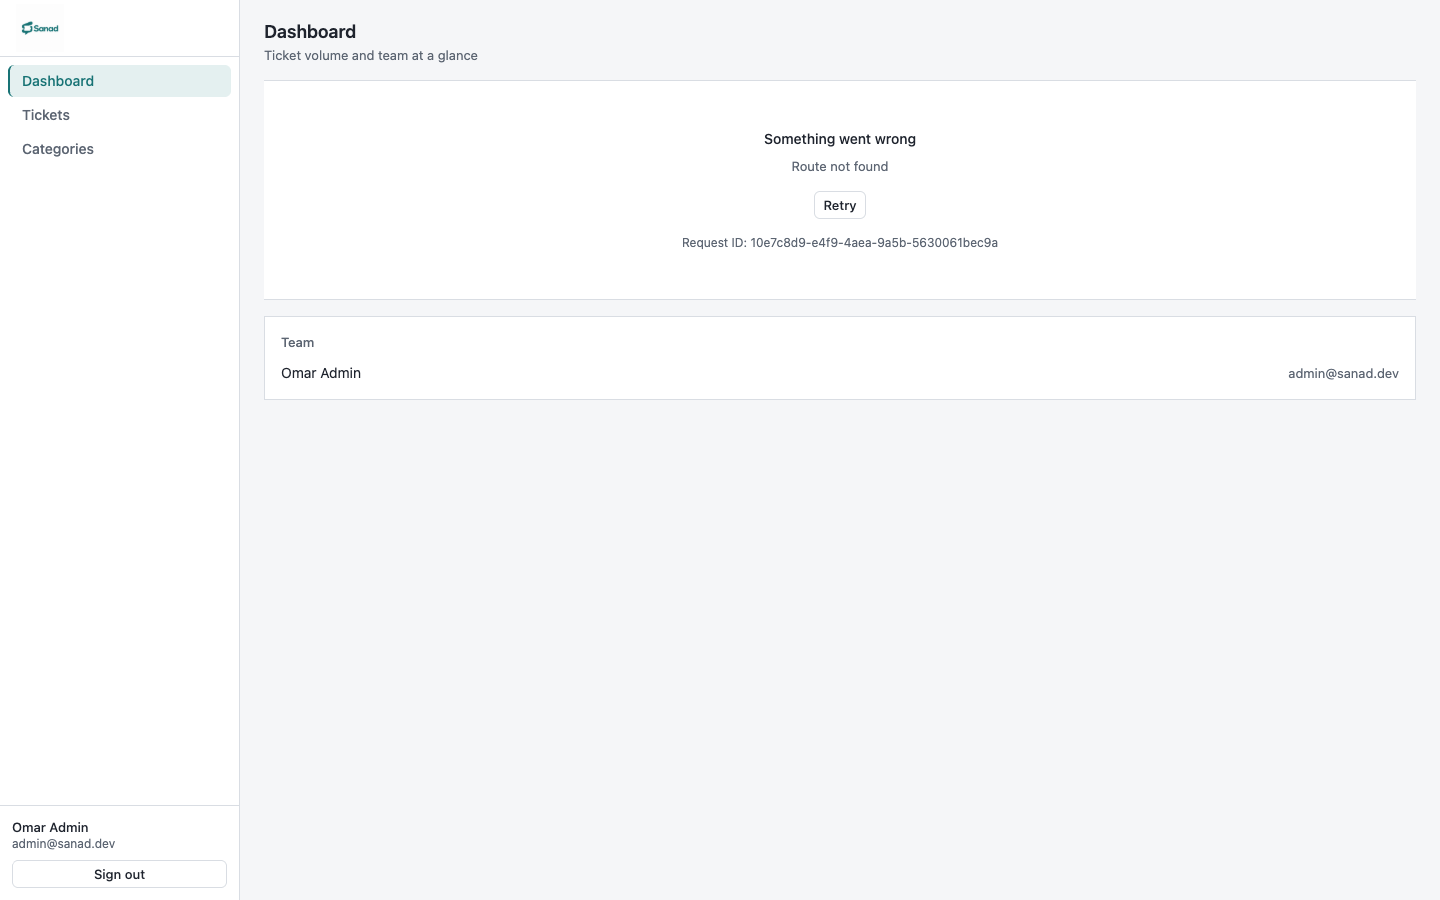
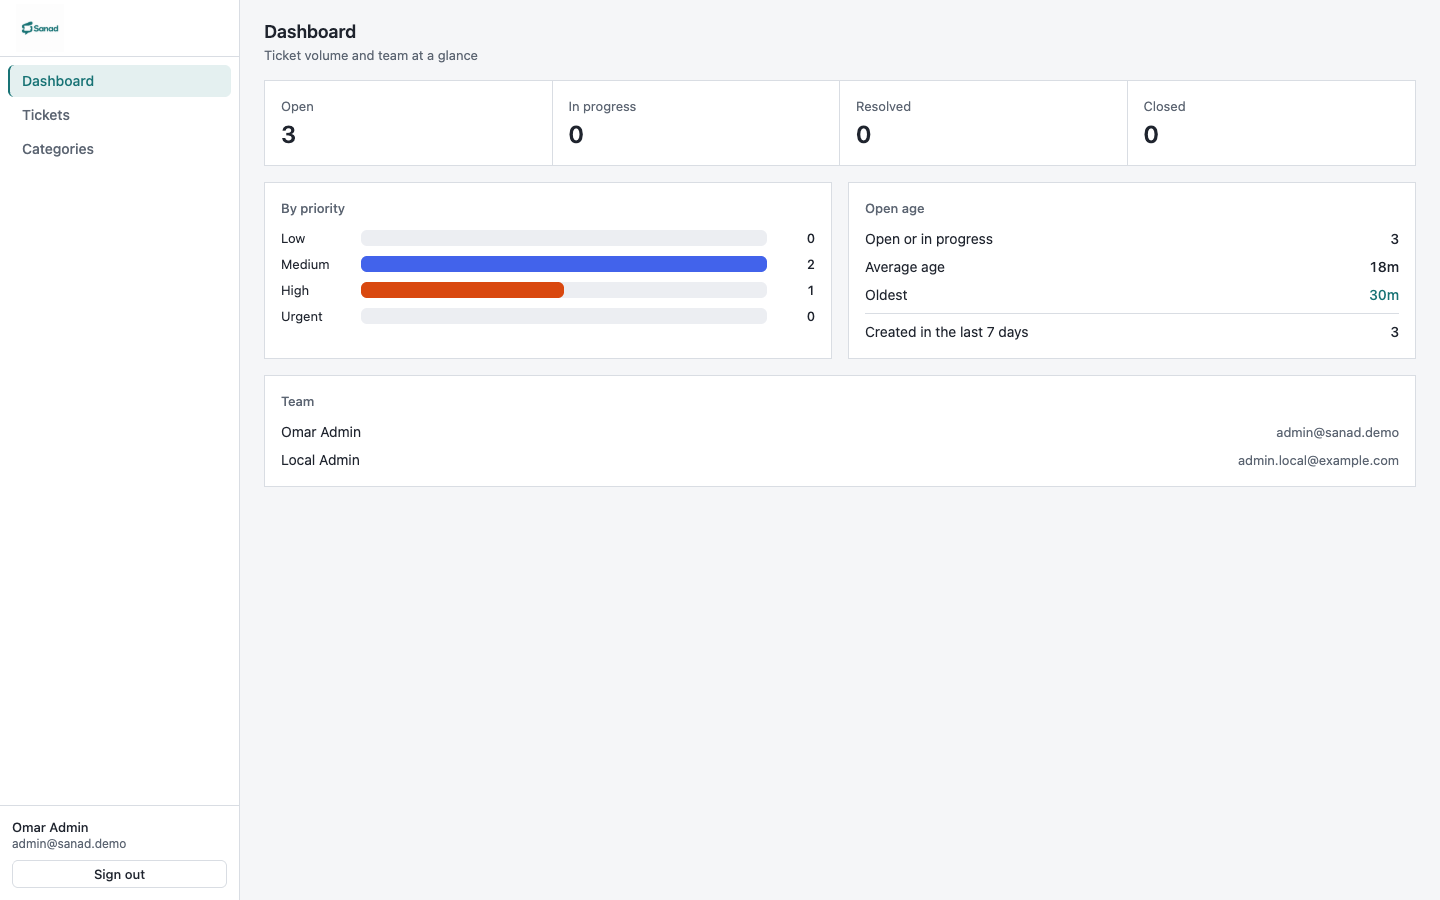
docs: demo account, dashboard and attachment screenshots

diff --git a/README.md b/README.md
@@ -41,10 +41,9 @@ Other scripts: `npm run lint` · `npm run typecheck` · `npm run build` · `npm 
 
 Only accounts with `role: "admin"` can sign in on the web client.
 
-- **After server Phase 2:** run `npm run seed` in `sanad-server` and use the demo admin it prints
-  (email only; the password comes from the server's `.env`).
-- **Before the seed exists:** register a user via `POST /auth/register` and flip its `role` to
-  `"admin"` directly in Mongo.
+Run `npm run seed` in `sanad-server` (idempotent) and sign in as the demo admin
+**`admin@sanad.demo`** — the password comes from `SEED_ADMIN_PASSWORD` in the server's `.env` and
+is never printed or committed.
 
 Session model: 15-minute access token in memory, silent restore on reload via the httpOnly
 refresh cookie, automatic single-flight refresh on 401, redirect to sign-in with a notice when
@@ -59,22 +58,19 @@ its own origin — exactly the shape the Vite dev proxy gives locally — so the
 relaxation. `VITE_API_URL` is not used on Vercel (it only feeds the dev proxy); the rewrite
 points at the deployed API (`sanad-server-production-8573.up.railway.app`).
 
-## Current scope (Phase 3b)
+## Current scope (Phase 3b — complete, verified against the seeded server)
 
-Everything is built against API contract **1.1.0** (`docs/API.md`):
-
-- **Fully live today:** sign-in and session handling, app shell, category management
-  (create / edit / soft delete / show-deleted, with 409 handling), the dashboard Team panel.
-- **Built and waiting for the server:** dashboard stats, the ticket list (filters, search, sort,
-  pagination — all URL-synced) and the ticket detail (status machine controls, assignee/priority/
-  category, conversation with internal notes, authenticated attachment downloads, history
-  timeline). Until the server's ticket/stats endpoints land these screens render their real error
-  state — loading, empty and error states are genuine, no mock data.
+Everything is built against API contract **1.1.0** (`docs/API.md`) and verified live: sign-in and
+session handling; dashboard with stat tiles (linked to the filtered list), priority breakdown,
+open-age block and Team panel; ticket list with URL-synced filters, debounced search, sort and
+pagination; ticket detail with status-machine controls, assignee/priority/category editing,
+conversation with internal notes, authenticated attachment downloads and the history timeline;
+category management with create/edit/soft-delete and 409 handling. Loading, empty and error states
+are real throughout — no mock data anywhere.
 
 ## Screenshots
 
-Current state, in [`docs/screenshots/`](docs/screenshots) — refreshed against the seeded server
-once the server's seed script lands:
+Taken against the seeded server, in [`docs/screenshots/`](docs/screenshots):
 
 | | |
 |---|---|
